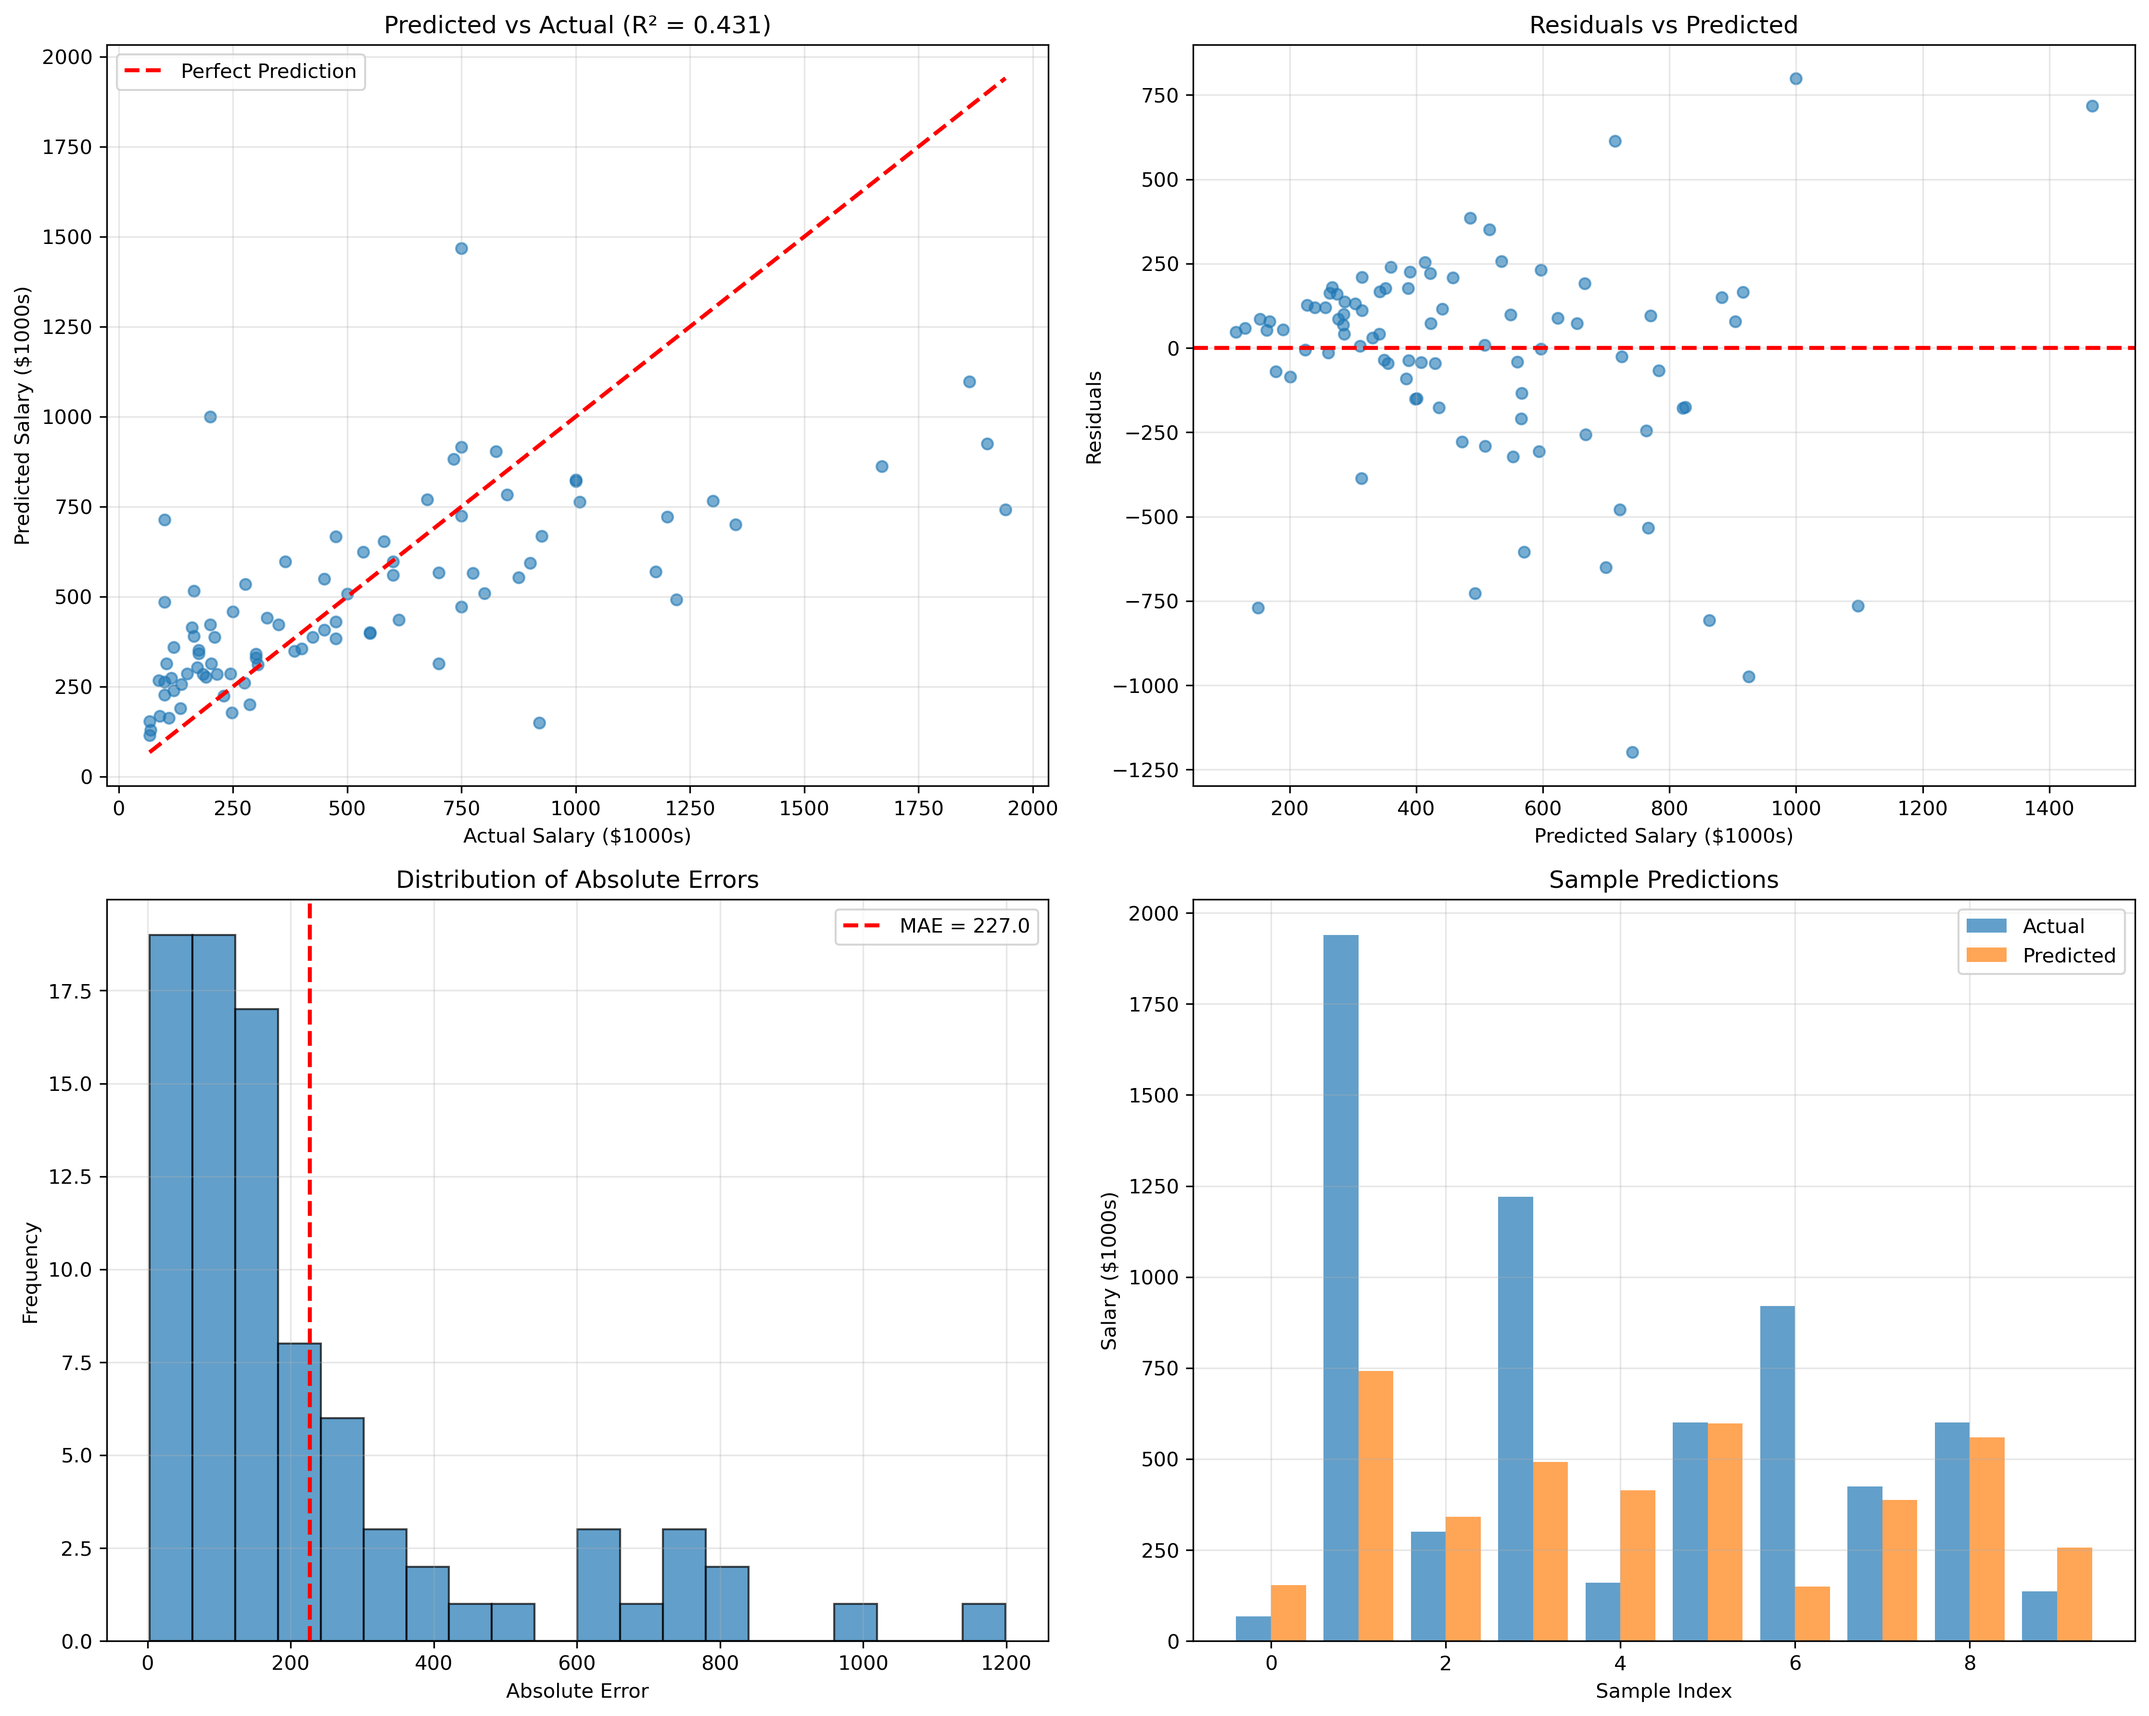
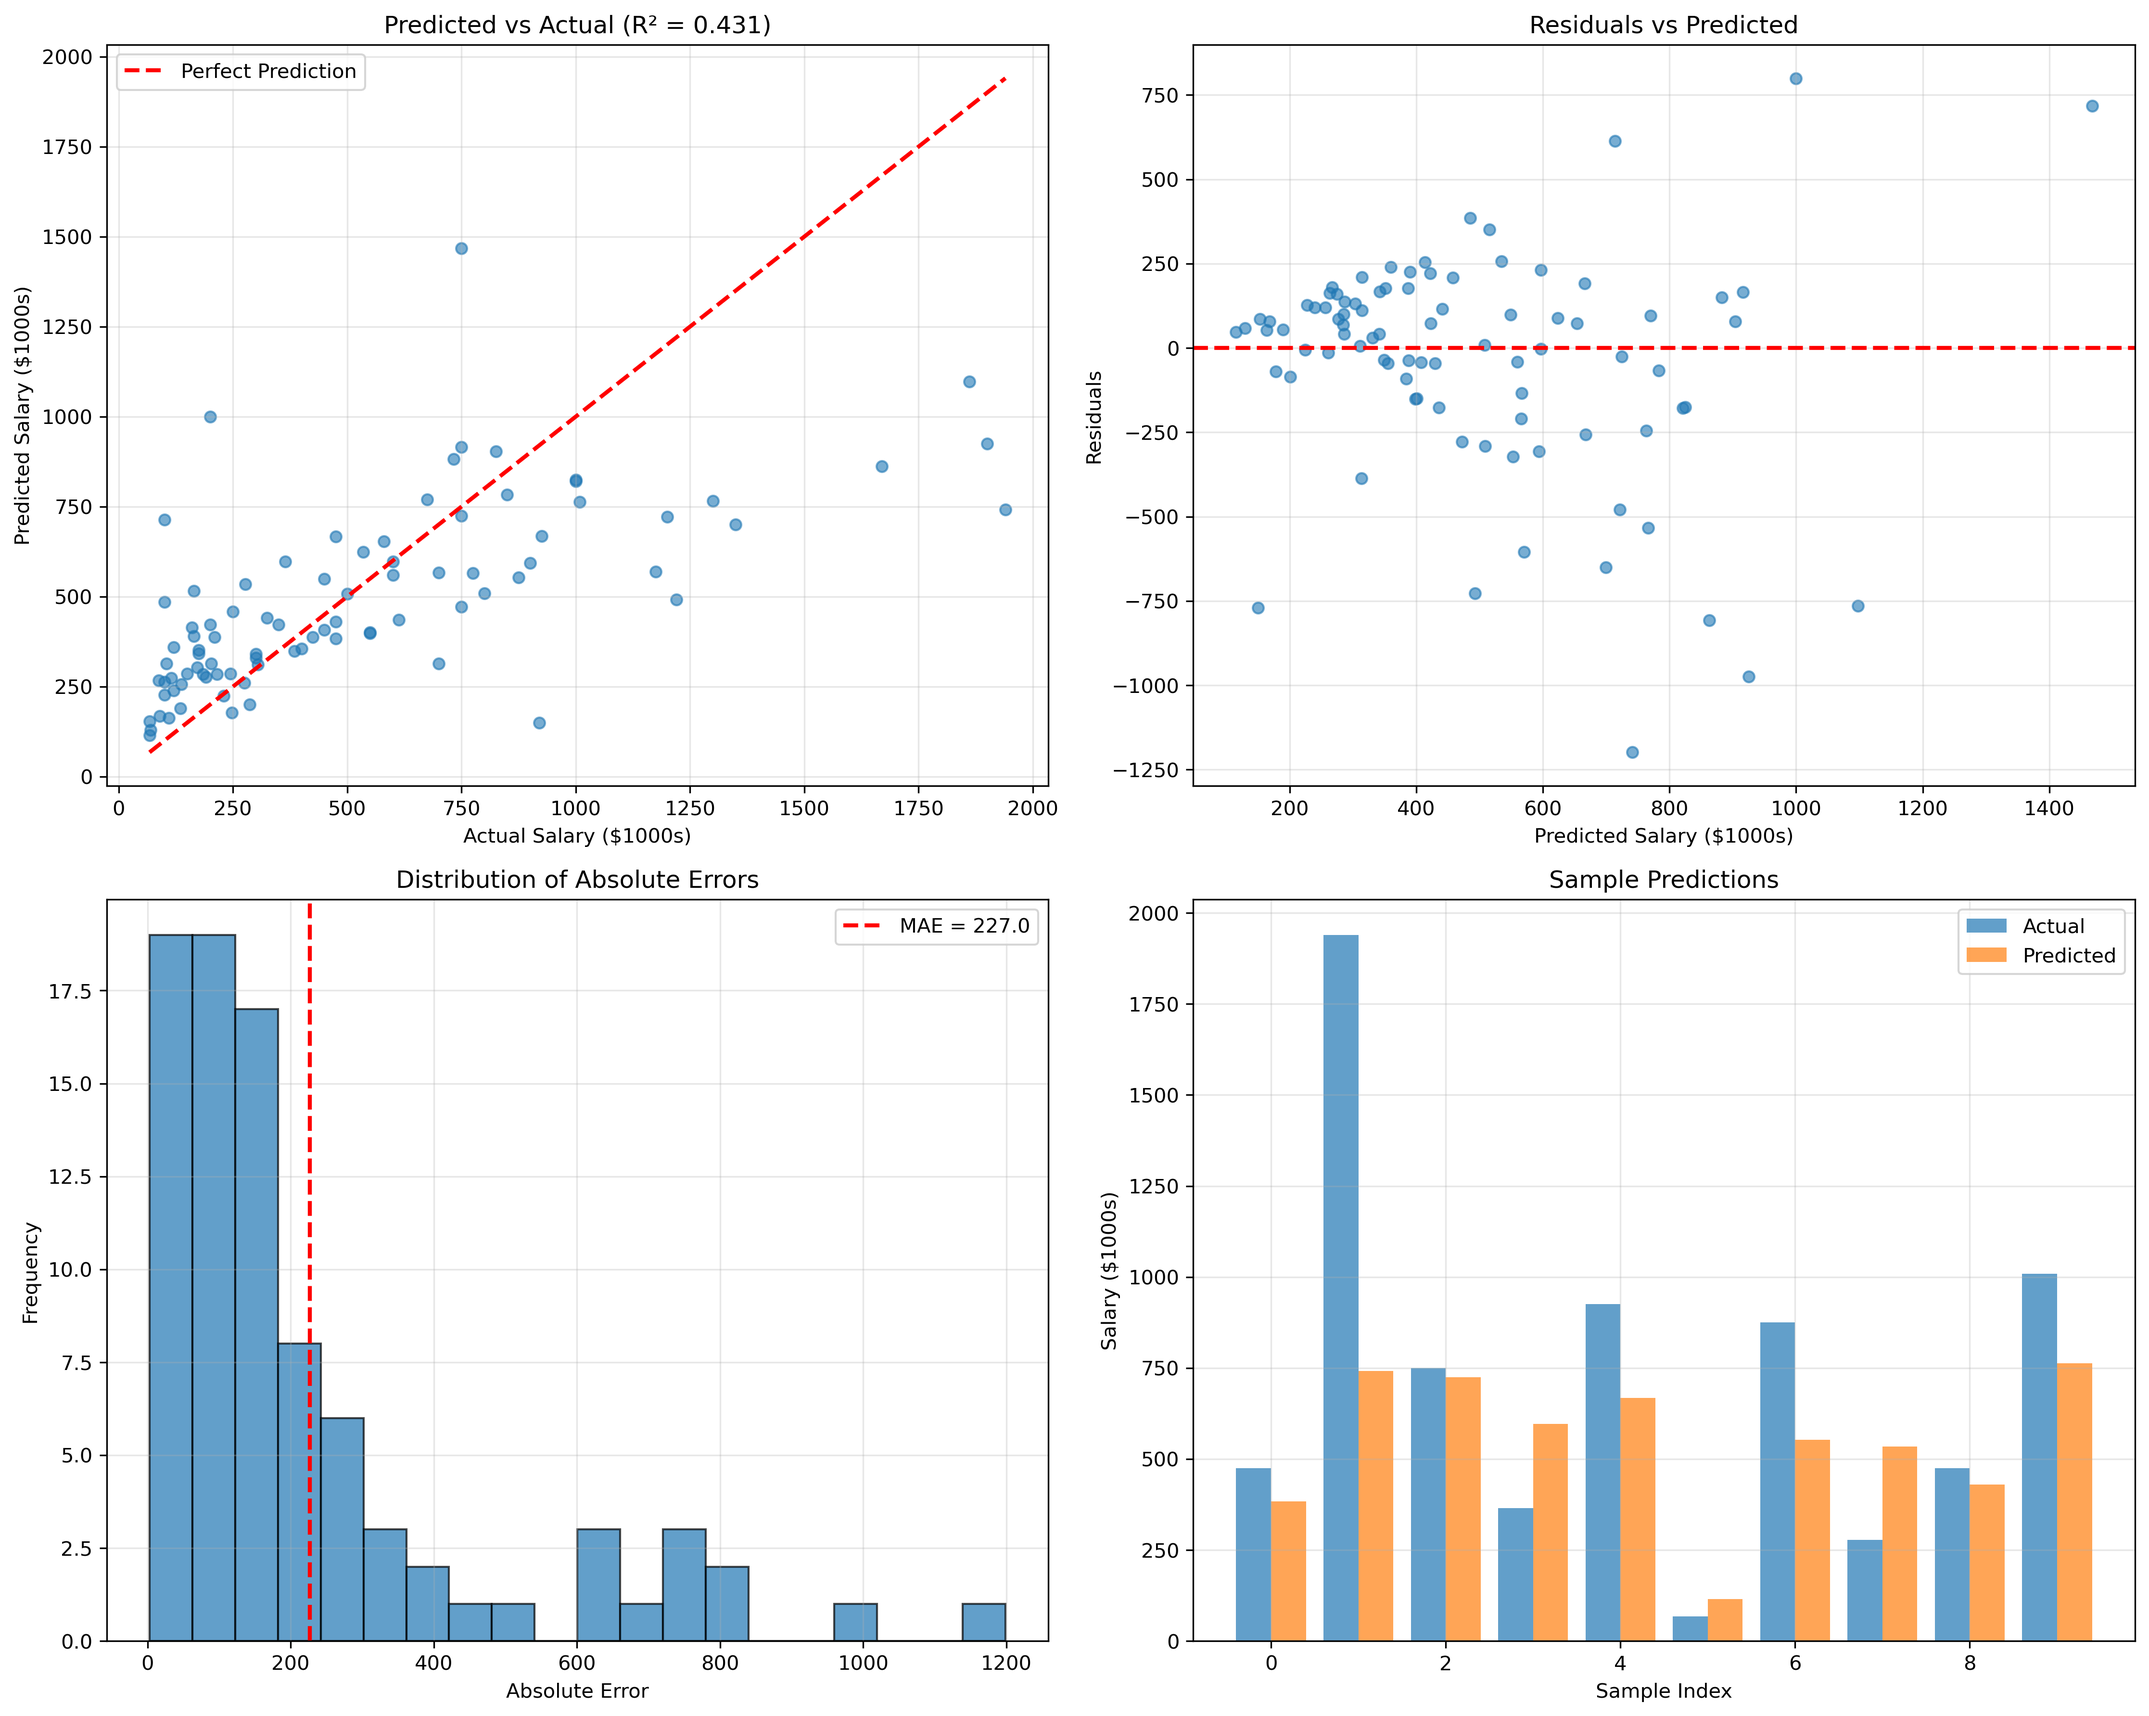
add figures

Changed region(s): [[0.6535, 0.6848, 0.9957, 0.9649], [0.5601, 0.8404, 0.6223, 0.9649], [0.809, 0.7471, 0.8402, 0.7782]]

diff --git a/README.md b/README.md
@@ -114,3 +114,16 @@ The project uses Hydra for configuration management. Key configuration files:
 - **Hyperparameter Optimization**: Bayesian optimization with W&B sweeps
 
 ## Results
+
+============================================================
+EVALUATION RESULTS
+============================================================
+Model: SimpleNN
+Architecture: [50]
+Test samples: 87
+Mean Absolute Error: 227.02
+Root Mean Square Error: 332.43
+R² Score: 0.4313
+Actual salary range: $68 - $1940
+Predicted salary range: $115 - $1468
+✅ MODERATE PERFORMANCE: R² indicates reasonable model fit
